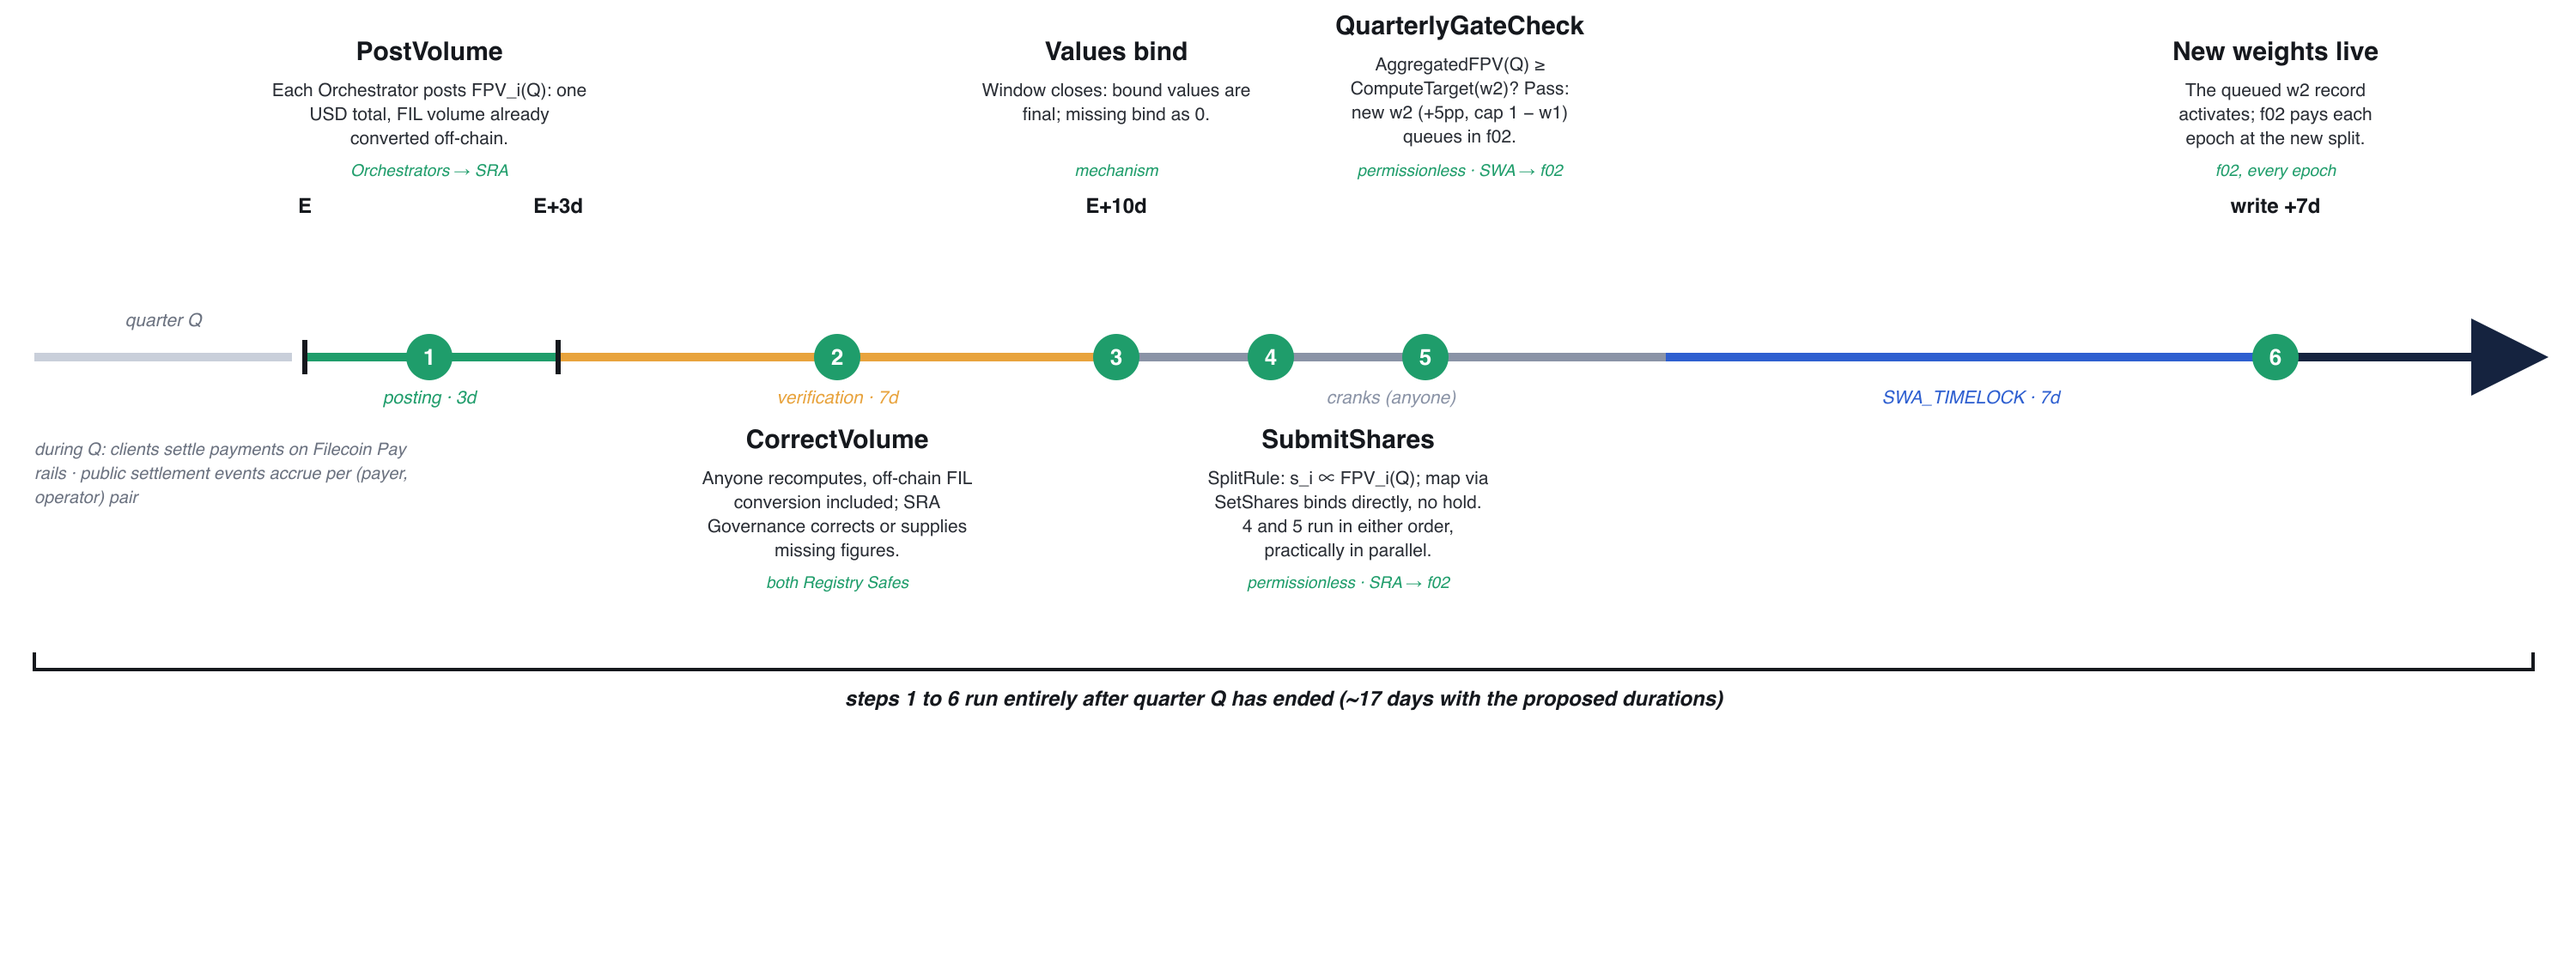
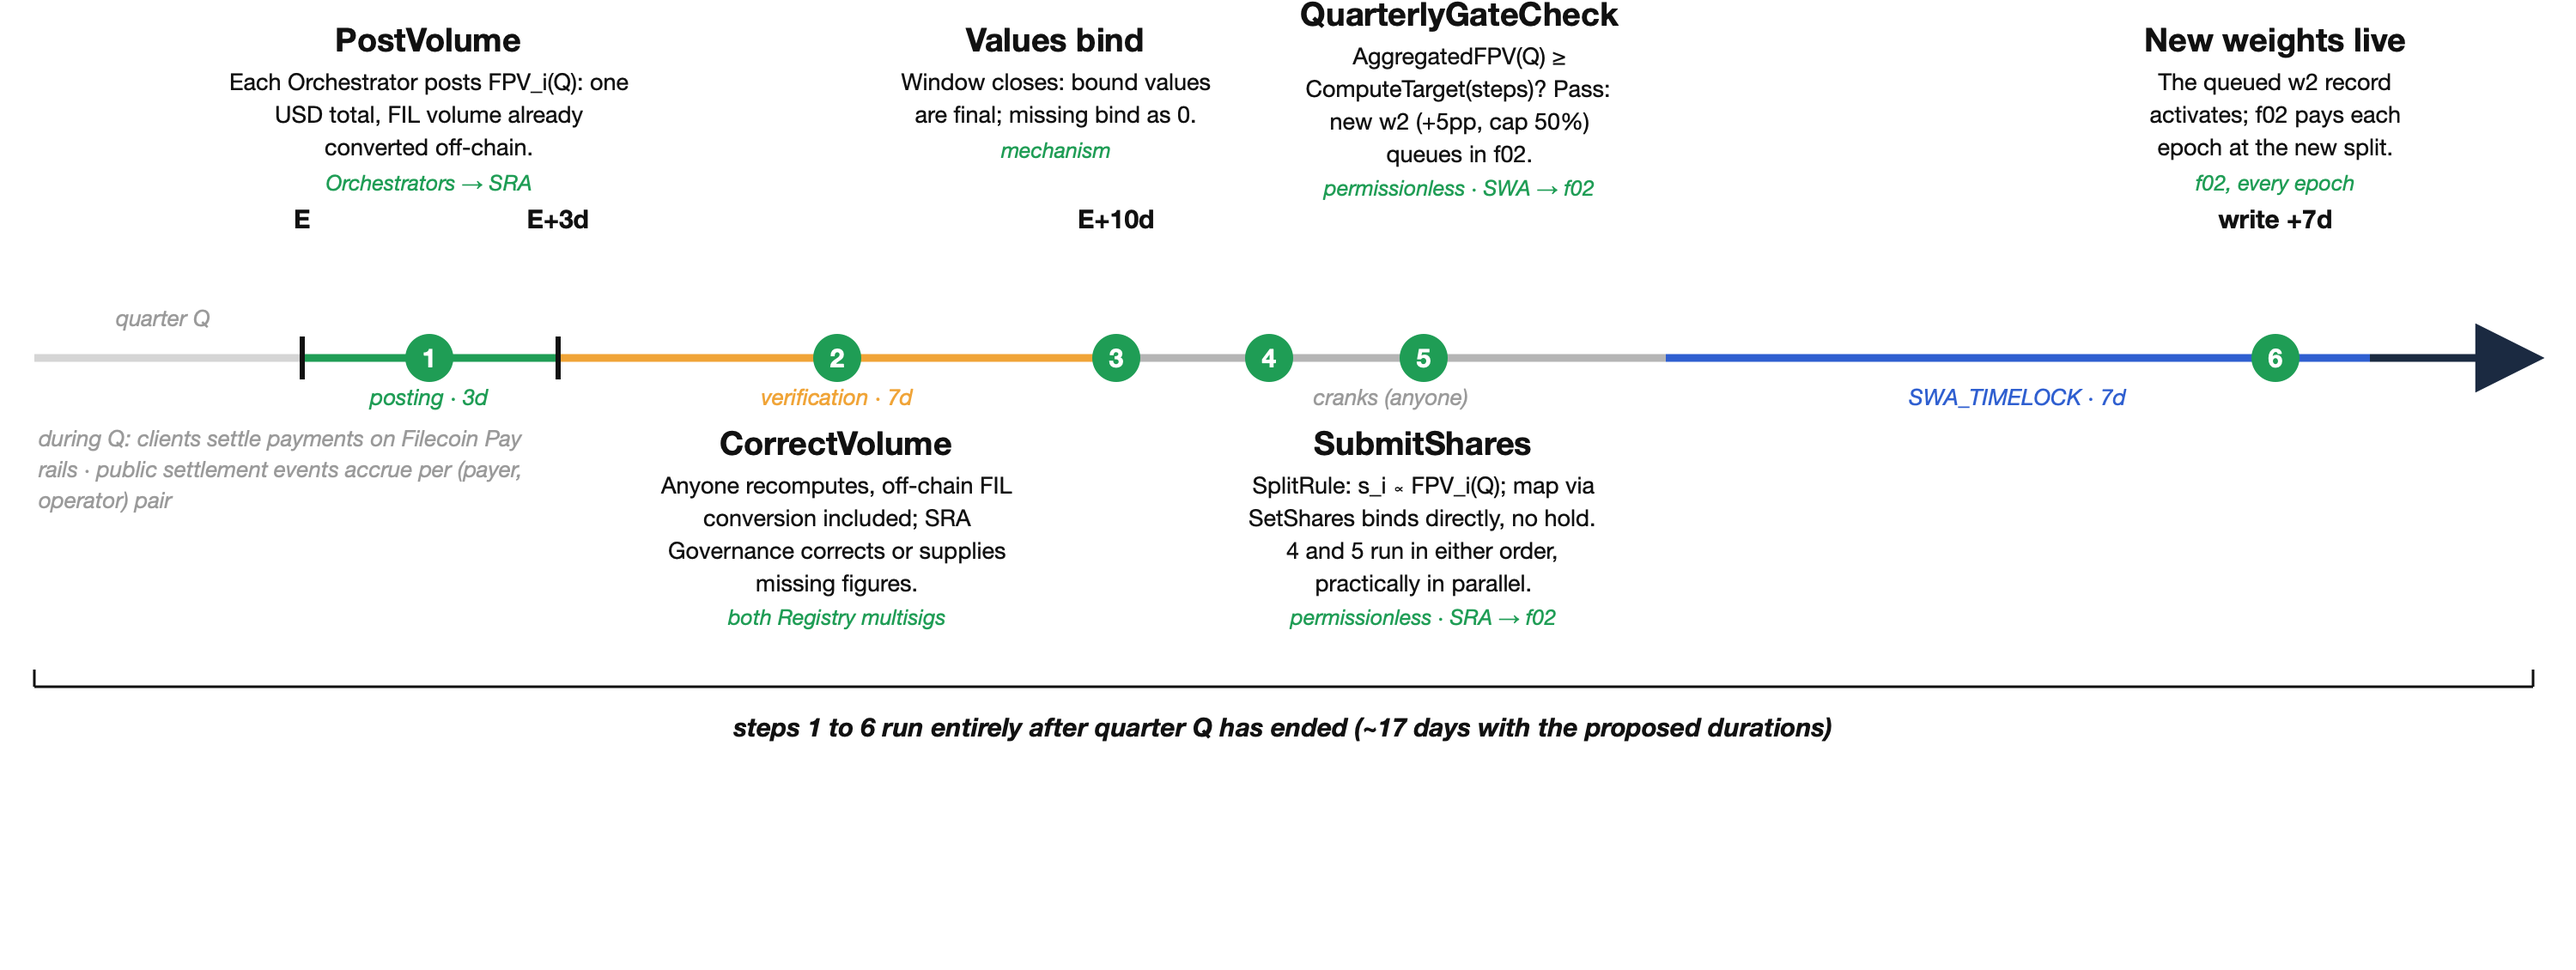
FIP-0118: add the Section 2.3 conversion-pipeline figure; refresh figures 1 and 2
Figure 3 replaces the deleted 'One conversion rule' recap block in
figure form: settlements and qualifying prints feed each
Orchestrator's off-chain indexer, the single conversion point, and
everything on chain past PostVolume is USD only. Figure 2 catches up
with the text: ComputeTarget(steps), both Registry multisigs, cap
50%. Figure 1 gains an ellipsis in the miner row so the consensus
stream reads as many miners, not three.

diff --git a/FIPS/fip-0118.md b/FIPS/fip-0118.md
@@ -972,6 +972,10 @@ Recap of the values the off-chain measurement depends on:
 | Band reference | The rate the band is measured around | Derived per print | The last qualifying print's `(lotUsd, claimFil)` pair | Seeded | At each qualifying print | Seeded by the five-print median (*Band seeding* above) |
 | `REGISTRATION_CUTOFF` | Late-claim guard: a registration in the last cutoff of a quarter applies from the boundary (Section 2.2) | Governance parameter | Parameter events | 7 days | Next quarter boundary | None |
 
+![Conversion pipeline: Filecoin Pay settlements and fee-auction prints, public on-chain events, feed each Orchestrator's off-chain indexer, the single conversion point; PostVolume carries one USD total per Orchestrator to the SRA; the SWA gate and the SRA's SubmitShares consume bound USD values](../resources/fip-0118/conversion-pipeline.png)
+
+*Figure 3: FPV has one conversion point: each Orchestrator's indexer, off chain, before `PostVolume`. On chain, USD only.*
+
 #### 2.4 L1 actor changes (f02)
 
 f02 becomes the stream engine. Every block it evaluates the weight
